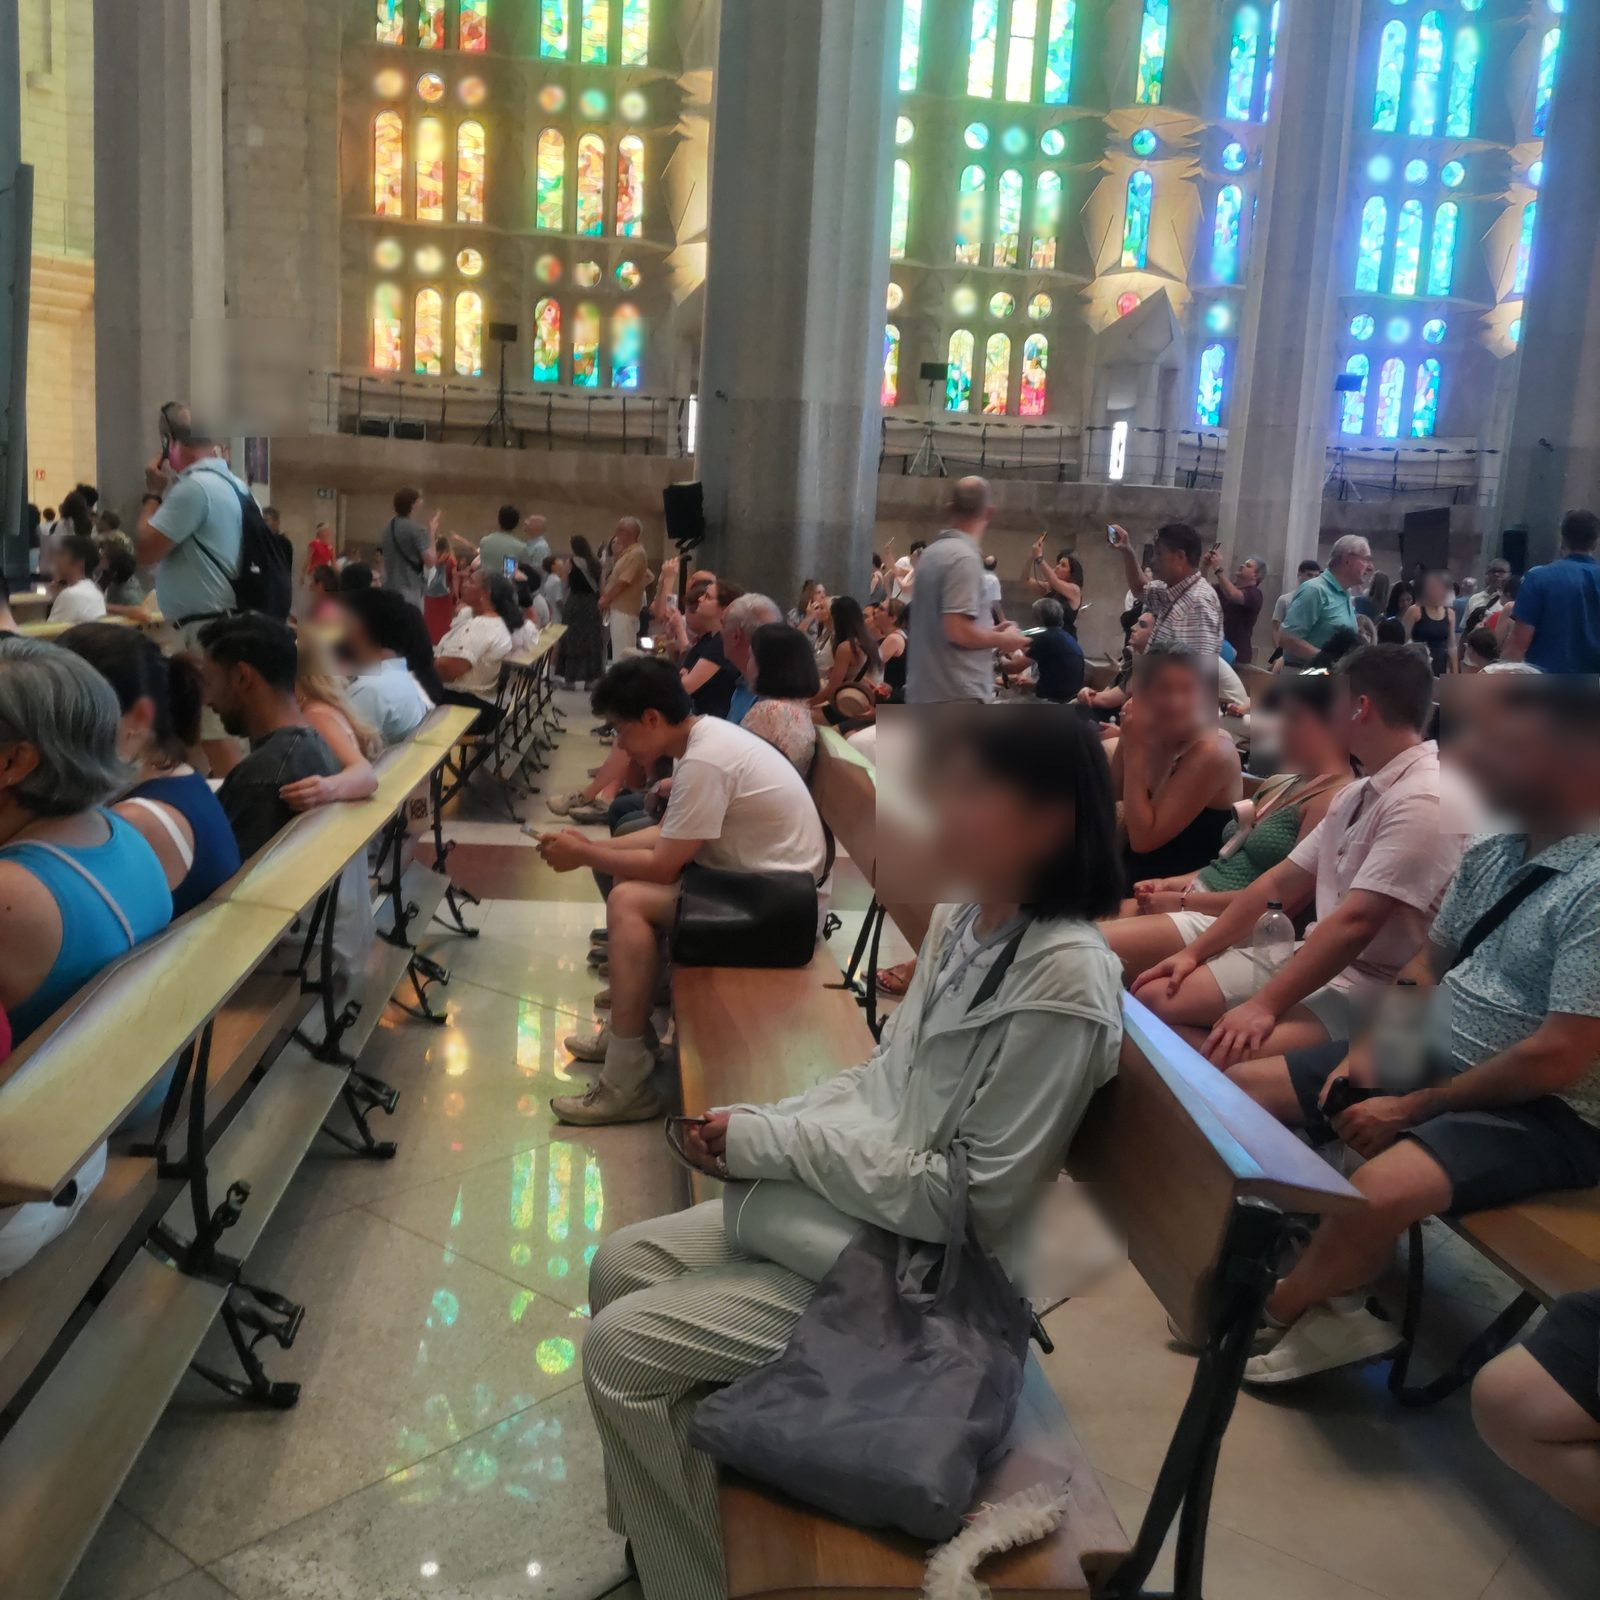
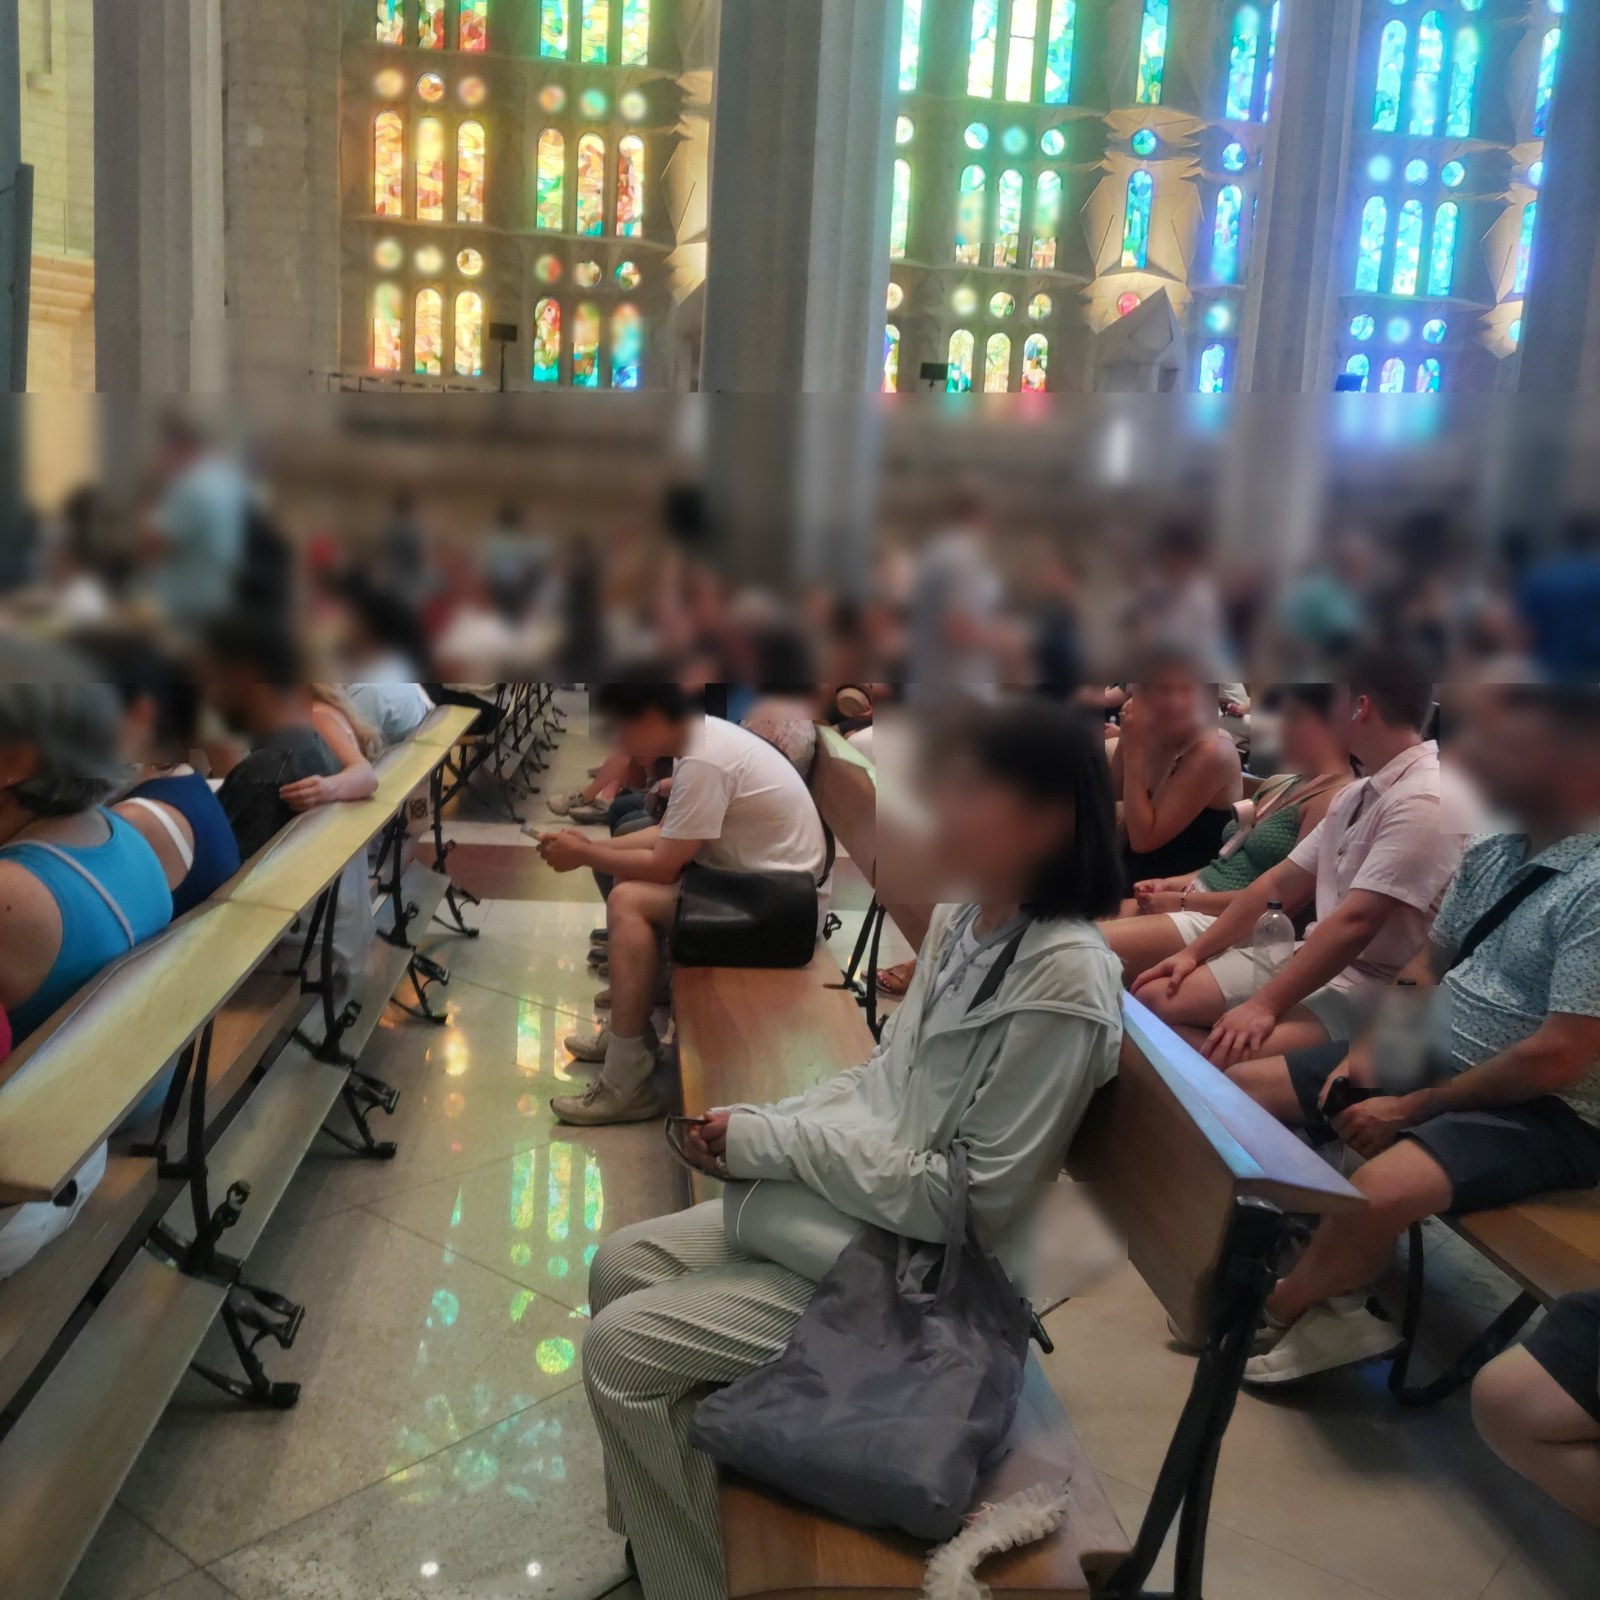
Draft: remove 4 face photos from HTML; replace nave photo with stronger blur (not for main until approved)
Claude-Session: https://claude.ai/code/session_01485Rgx jy9KH3EFAHBBvySF

diff --git a/index.html b/index.html
@@ -253,20 +253,6 @@ footer {
         </div>
       </div>
       <div class="photo-card">
-        <img src="photos/スペイン_05_ピラール広場で.jpg" alt="ピラール広場で" loading="lazy">
-        <div class="photo-caption">
-          <div class="caption-main">ピラール広場で — 両腕を広げて、サラゴサに到着。</div>
-          <div class="caption-sub">Zaragoza · 2026.06.26</div>
-        </div>
-      </div>
-      <div class="photo-card">
-        <img src="photos/スペイン_06_大聖堂の前で.jpg" alt="大聖堂の前で" loading="lazy">
-        <div class="photo-caption">
-          <div class="caption-main">大聖堂の前で — エブロ川のほとりに建つ、ピラール聖母大聖堂の入口にて。</div>
-          <div class="caption-sub">Zaragoza · 2026.06.26</div>
-        </div>
-      </div>
-      <div class="photo-card">
         <img src="photos/スペイン_07_ピラール聖母大聖堂.jpg" alt="ピラール聖母大聖堂" loading="lazy">
         <div class="photo-caption">
           <div class="caption-main">ピラール聖母大聖堂 — バロックの名所。タイルで飾られたドームが美しい。</div>
@@ -351,13 +337,6 @@ footer {
         </div>
       </div>
       <div class="photo-card">
-        <img src="photos/スペイン_19_石橋の上で.jpg" alt="石橋の上で" loading="lazy">
-        <div class="photo-caption">
-          <div class="caption-main">石橋の上で — 背景には、青空に並ぶピラール大聖堂の塔。</div>
-          <div class="caption-sub">Zaragoza · 2026.06.26</div>
-        </div>
-      </div>
-      <div class="photo-card">
         <img src="photos/スペイン_20_広場の大きな建物.jpg" alt="広場の大きな建物" loading="lazy">
         <div class="photo-caption">
           <div class="caption-main">広場の大きな建物 — アーチの回廊をもつ、重厚な建物。旗が風に揺れる。</div>
@@ -431,13 +410,6 @@ footer {
         <img src="photos/スペイン_30_サグラダ・ファミリア.jpg" style="height:auto;max-height:none;" alt="サグラダ・ファミリア" loading="lazy">
         <div class="photo-caption">
           <div class="caption-main">サグラダ・ファミリア — ガウディの未完の傑作。着工から100年以上、今も空へ伸び続けている。</div>
-          <div class="caption-sub">Barcelona · 2026.06.27</div>
-        </div>
-      </div>
-      <div class="photo-card">
-        <img src="photos/スペイン_31_サグラダ・ファミリアの前で.jpg" style="height:auto;max-height:none;" alt="サグラダ・ファミリアの前で" loading="lazy">
-        <div class="photo-caption">
-          <div class="caption-main">サグラダ・ファミリアの前で — 池のほとりで、尖塔を背に。バルセロナの思い出の一枚。</div>
           <div class="caption-sub">Barcelona · 2026.06.27</div>
         </div>
       </div>
